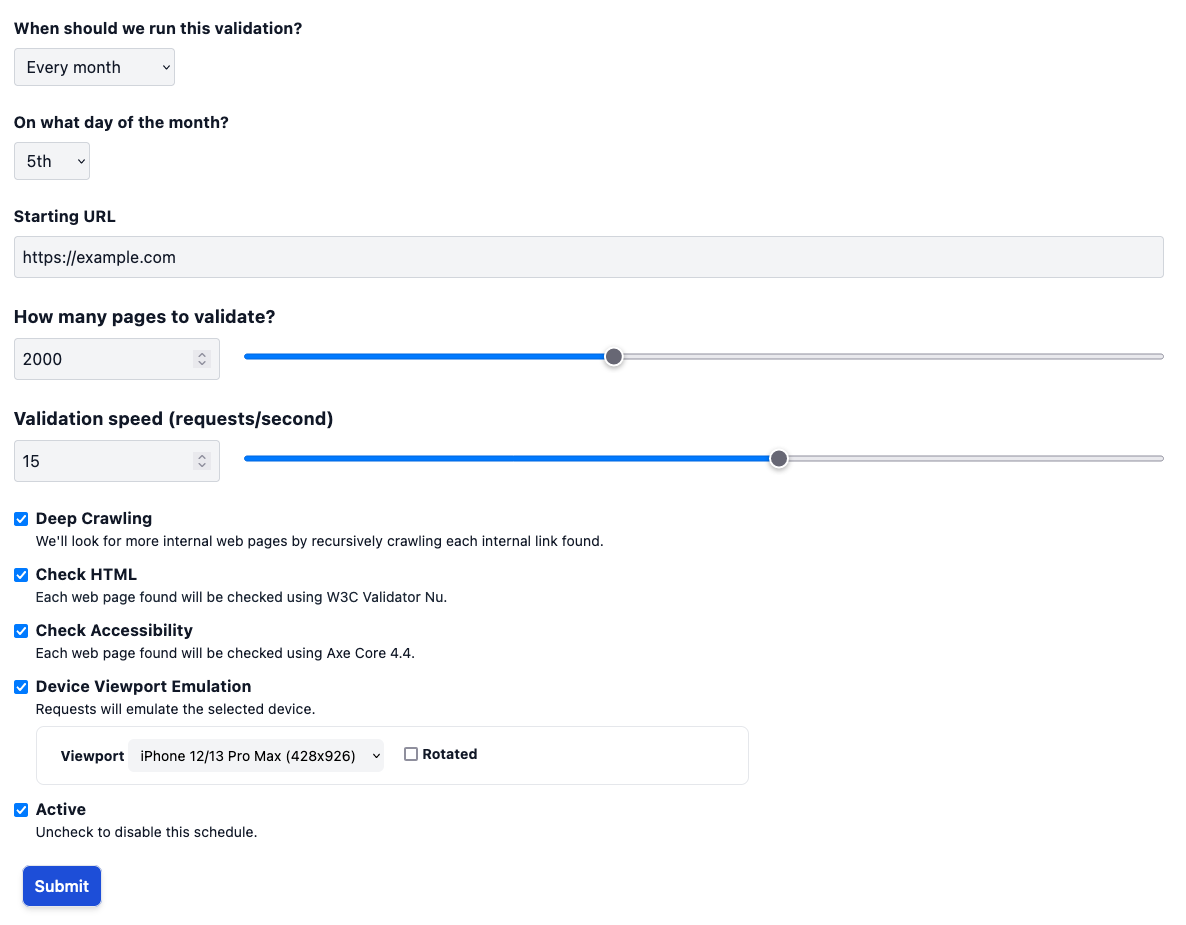
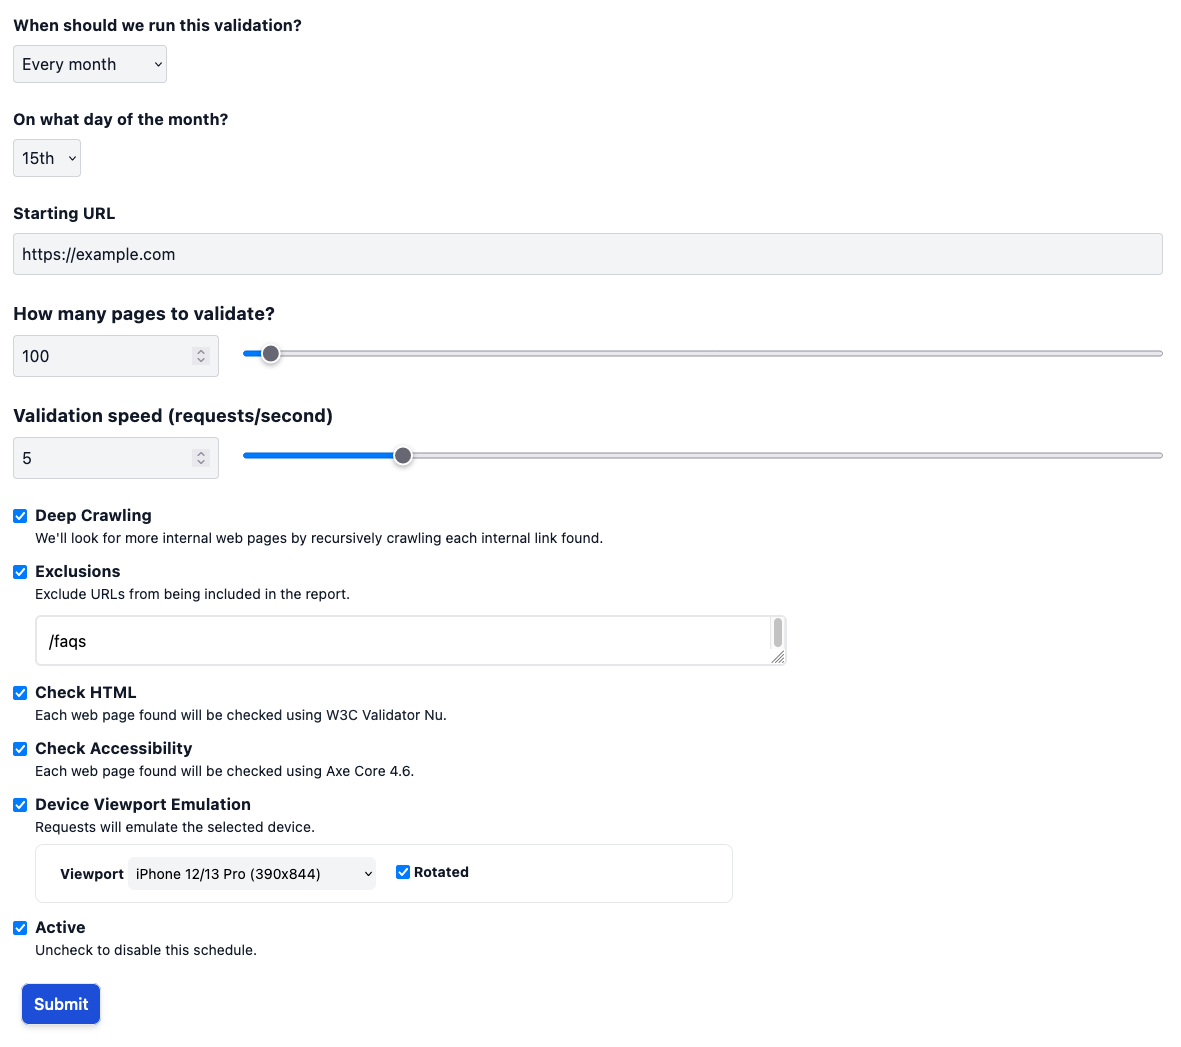
document exclusions

Changed region(s): [[0.0, 0.0, 0.9754, 0.9686], [0.3353, 0.787, 0.3963, 0.8476], [0.6401, 0.5751, 0.6706, 0.6357]]

diff --git a/docs/scheduling.md b/docs/scheduling.md
@@ -15,6 +15,7 @@ To schedule a site validation, you can define:
 * **How many pages to validate**. The maximum number of pages to validate. There's a limit on the pages included depending on your subscription plan, but you'll typically want to set a much lower limit. If you need to validate more pages than the limit on a report, consider using XML sitemaps to organize pages into sets.
 * **Validation speed (requests/second)**. By default is 3 reqs/second, can be set higher depending on your subscription plan. <a href="/rate-limits">Read more</a>.
 * **Deep Crawling**. When enabled, our crawler will recursively look for more internal web pages following the links found.
+* **Exclusions**. When enabled, it lets you to define a list of paths to be excluded from the web pages list by our web crawler.
 * **Validate HTML and Accessibility or only HTML**. Choose if you want to include A11Y checks on top of HTML checks.
 * **Device Viewport Emulation**. Optionally choose a device to emulate while validating the page for accessibility issues. This will set the viewport's width, height and device scale factor to the ones in the selected device. If none selected, the default 800x600 viewport will be used.
 * **Active**. Disable this to temporarily pause the scheduled validation.

diff --git a/docs/quick-start.md b/docs/quick-start.md
@@ -14,6 +14,7 @@ To validate a site, you can define the following options.
 * **How many pages to validate**. The maximum number of pages to validate. There's a limit on the pages included depending on your subscription plan, but you'll typically want to set a much lower limit. If you need to validate more pages than the limit on a report, consider using XML sitemaps to organize pages into sets.
 * **Validation speed (requests/second)**. Can be set from 1 to 5 (Basic users) or 1 to 15 (Pro users).
 * **Deep Crawling**. When enabled, our crawler will recursively look for more internal web pages following the links found.
+* **Exclusions**. When enabled, it lets you to define a list of paths to be excluded from the web pages list by our web crawler.
 * **Validate HTML and/or Accessibility**. Pro users can choose to include A11Y checks on top of HTML checks.
 * **Device Viewport Emulation**. Optionally choose a device to emulate while validating the page for accessibility issues. This will set the viewport's width, height and device scale factor to the ones in the selected device. If none selected, the default 800x600 viewport will be used.
 
